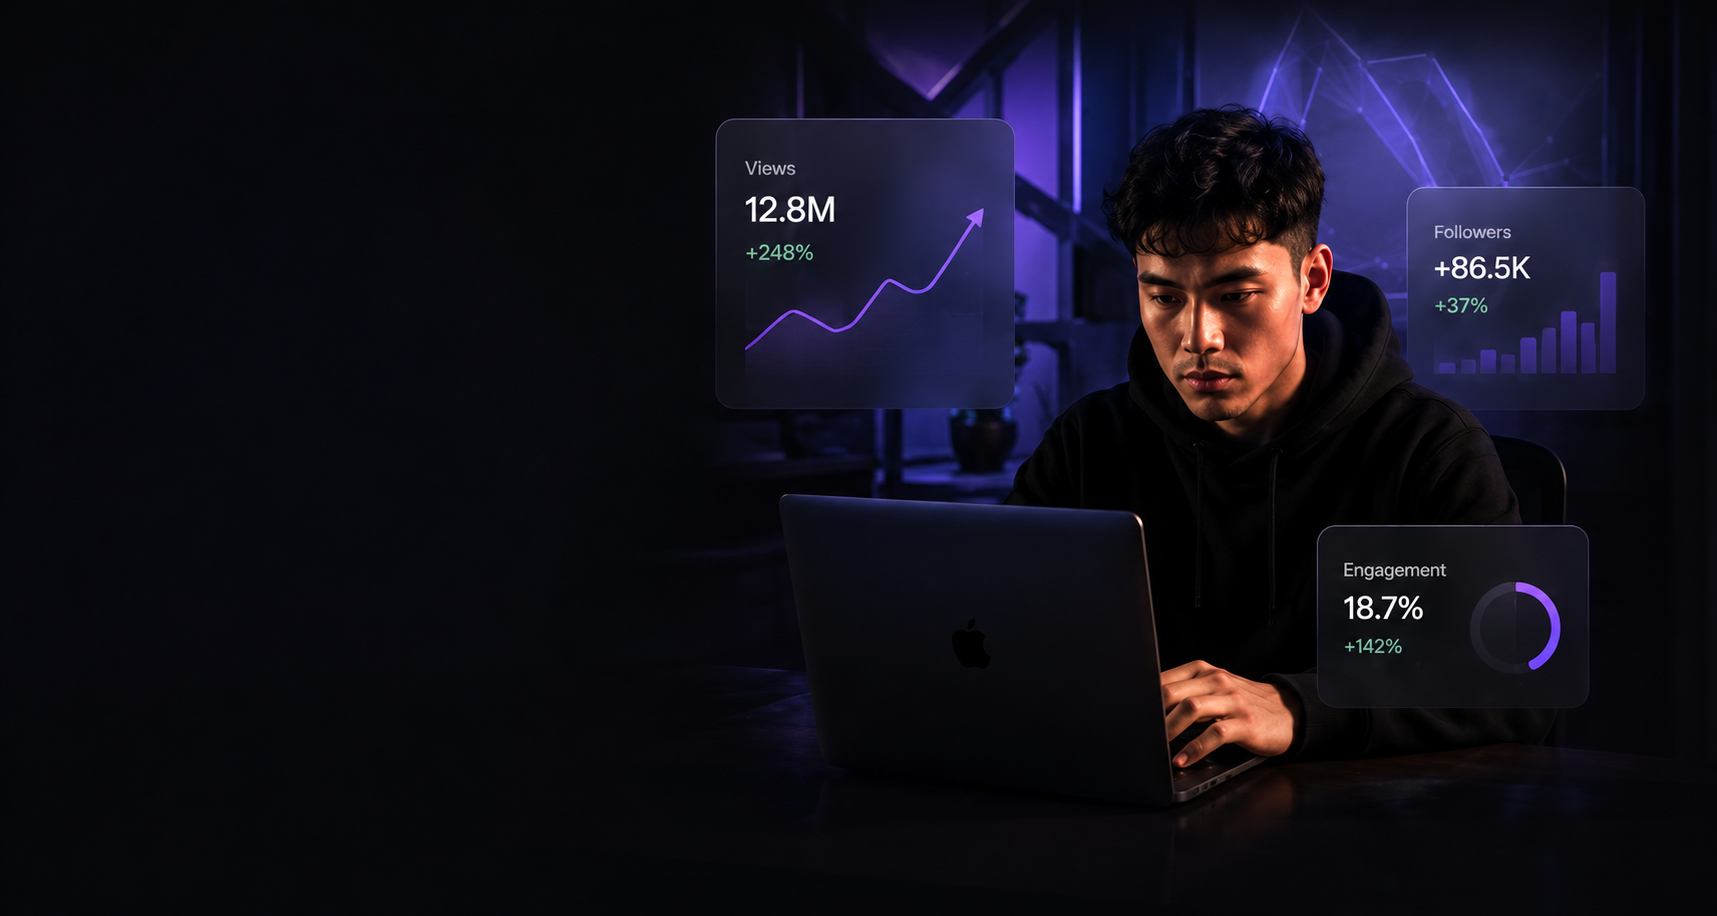
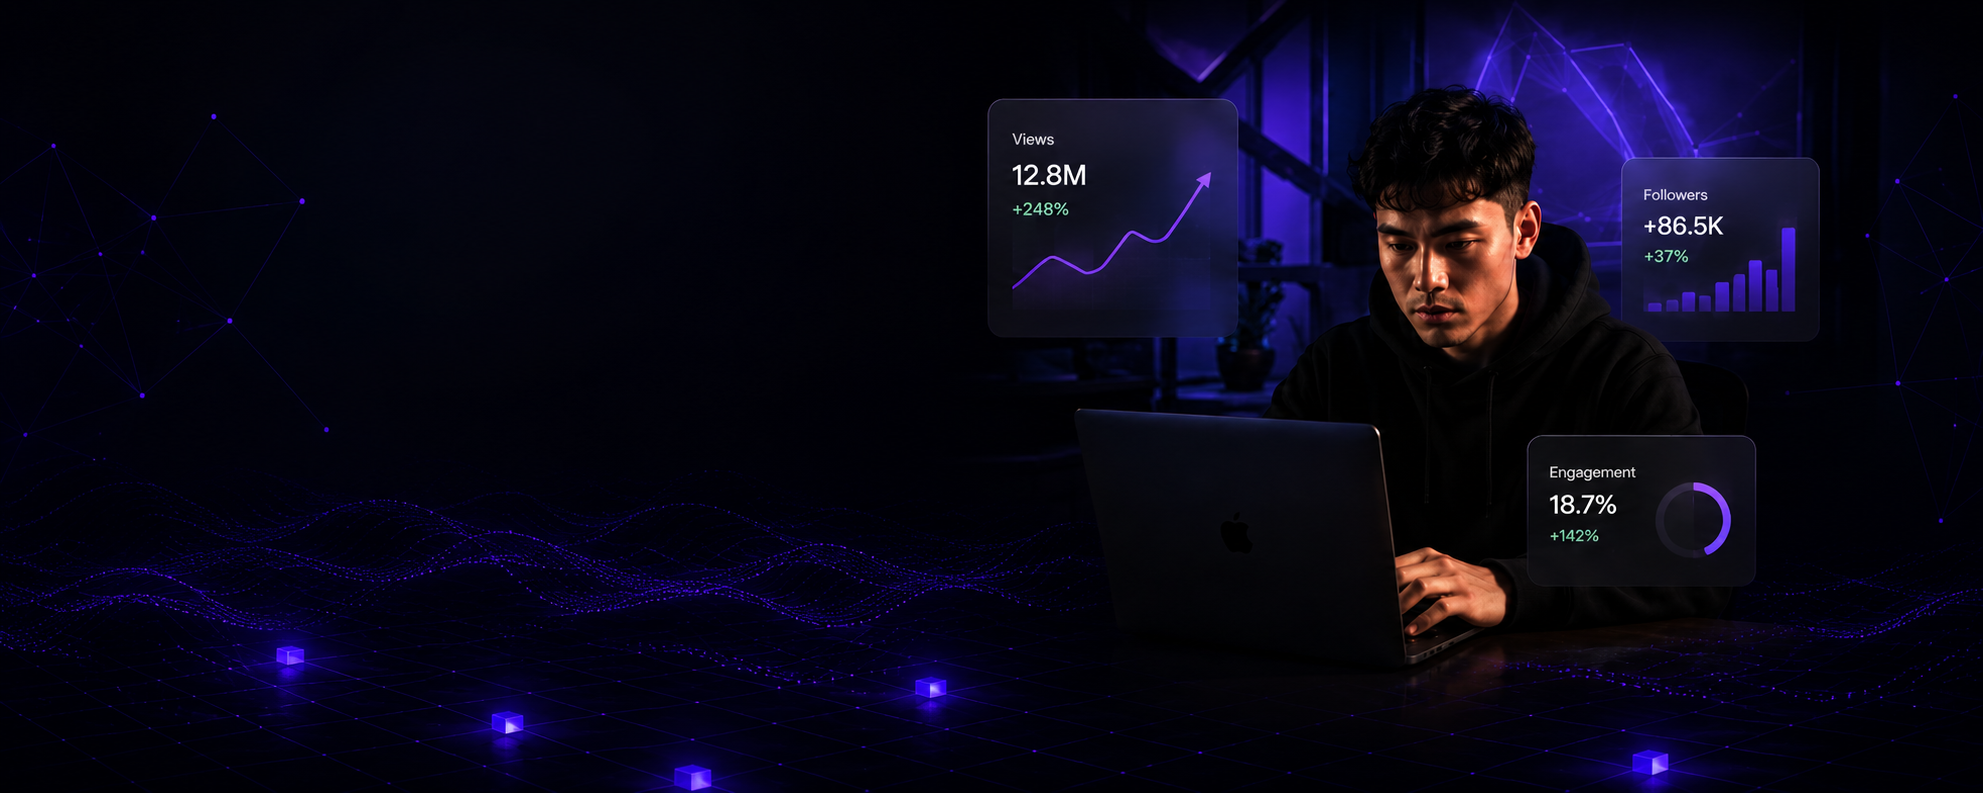
Hero a ancho completo: imagen entera + titulo superpuesto, pantalla arranca al terminar
hero.png nuevo (banner 2.5:1) ocupa todo el ancho sin recortar; titulo
superpuesto sobre la zona oscura izquierda. Se quita el margin-top:-50px de
#proceso para que el paso a paso arranque justo donde termina la imagen.

diff --git a/portfolio.html b/portfolio.html
@@ -790,7 +790,7 @@
     .footer, .footer *{ color:var(--rd-muted) !important; }
 
     /* ===== PROCESO: 7 tarjetas paso a paso (flex → última fila centrada = pirámide invertida) ===== */
-    #proceso{ margin-top:-50px; }   /* sube el título "Nuestro proceso" y todo lo de abajo */
+    #proceso{ margin-top:0; }   /* va justo debajo del hero (sin solaparse con la imagen) */
     .steps{ display:flex; flex-wrap:wrap; justify-content:center; gap:14px; margin:8px 0 26px; }
     .step{
       position:relative; overflow:hidden;
@@ -876,53 +876,50 @@
       background:linear-gradient(180deg, rgba(7,6,23,.45) 0%, rgba(7,6,23,.12) 38%, rgba(7,6,23,.62) 100%);
     }
 
+    /* Hero a TODO el ancho: la imagen se ve completa (sin recortar) y recién
+       cuando termina arranca el fondo "pantalla". El título va superpuesto
+       sobre la zona oscura izquierda del banner. */
     .lp-hero{
-      position:relative; z-index:1; padding:46px 24px 0; border-bottom:none !important;
-      /* fondo oscuro propio que tapa la "pantalla" y al final se FUNDE hacia ella (degradé) */
-      background:
-        radial-gradient(120% 95% at 74% 28%, rgba(74,46,150,.32), transparent 62%),
-        linear-gradient(180deg, #06060f 0%, #07061a 52%, rgba(7,6,26,0) 100%);
+      position:relative; z-index:1; padding:0; border-bottom:none !important;
+      background:#06060f; line-height:0;
     }
-    .lp-hero__grid{
-      max-width:1180px; margin:0 auto; width:100%;
-      display:grid; grid-template-columns:1fr 1.05fr; gap:50px; align-items:center;
-      min-height:min(72vh, 600px); padding-bottom:90px;
+    .lp-hero__img{ display:block; width:100%; height:auto; }   /* ancho completo · imagen entera */
+    .lp-hero__overlay{
+      position:absolute; left:0; top:0; bottom:0; z-index:2; line-height:1.05;
+      display:flex; flex-direction:column; justify-content:center;
+      padding:0 5vw; max-width:52%;
     }
-    .lp-hero__copy{ text-align:left; }
     .lp-hero__eyebrow{
-      display:inline-block; font-family:var(--font-mono); font-size:13px; font-weight:700; letter-spacing:.04em;
+      display:inline-block; width:fit-content; font-family:var(--font-mono);
+      font-size:clamp(9px,1vw,13px); font-weight:700; letter-spacing:.04em;
       color:var(--rd-cyan); background:rgba(60,240,255,.10); border:1px solid rgba(60,240,255,.40);
-      border-radius:999px; padding:6px 14px; margin-bottom:22px;
+      border-radius:999px; padding:.4em .9em; margin-bottom:clamp(8px,1.4vw,22px);
     }
     .lp-hero__title{
-      font-family:var(--font-display); font-size:clamp(2.3rem, 5.4vw, 4.6rem); line-height:1.0;
-      text-transform:uppercase; color:#eef2ff; margin:0 0 22px; text-shadow:0 2px 30px rgba(0,0,0,.55);
+      font-family:var(--font-display); font-size:clamp(1.1rem, 3.4vw, 4rem); line-height:1.0;
+      text-transform:uppercase; color:#eef2ff; margin:0 0 clamp(6px,1.2vw,20px);
+      text-shadow:0 2px 30px rgba(0,0,0,.6);
     }
     .lp-hero__title .hi-cyan{ color:var(--rd-cyan); text-shadow:0 0 24px rgba(61,240,255,.55); }
     .lp-hero__title .hi-violet{ color:#b78bff; text-shadow:0 0 24px rgba(154,107,255,.55); }
     .lp-hero__sub{
-      font-family:var(--font-body); font-size:clamp(1rem,1.5vw,1.18rem); color:var(--rd-muted);
-      max-width:34ch; margin:0 0 30px; line-height:1.55;
+      font-family:var(--font-body); font-size:clamp(.7rem,1.25vw,1.12rem); color:#c7ceea;
+      max-width:34ch; margin:0 0 clamp(10px,1.6vw,28px); line-height:1.5;
+      text-shadow:0 1px 12px rgba(0,0,0,.6);
     }
     .lp-hero__cta{
-      display:inline-flex; align-items:center; gap:10px; font-family:var(--font-display); font-size:14px;
-      text-transform:uppercase; text-decoration:none; padding:15px 26px; border-radius:12px;
+      display:inline-flex; align-items:center; gap:8px; width:fit-content;
+      font-family:var(--font-display); font-size:clamp(9px,1.05vw,14px);
+      text-transform:uppercase; text-decoration:none; padding:.9em 1.7em; border-radius:12px;
       background:linear-gradient(135deg,var(--rd-blue),var(--rd-cyan)); color:#06080f;
       box-shadow:0 0 22px rgba(60,240,255,.45), 0 10px 28px rgba(0,0,0,.45);
       transition:transform .12s ease, box-shadow .12s ease;
     }
     .lp-hero__cta:hover{ transform:translateY(-3px); box-shadow:0 0 34px rgba(60,240,255,.75), 0 12px 32px rgba(0,0,0,.5); }
-    .lp-hero__media{ position:relative; }
-    .lp-hero__media img{
-      width:100%; height:auto; display:block; border-radius:18px;
-      border:1px solid rgba(95,160,255,.30);
-      box-shadow:0 24px 60px rgba(0,0,0,.55), 0 0 40px rgba(95,150,255,.18);
-    }
-    @media (max-width:860px){
-      .lp-hero{ padding-top:26px; }
-      .lp-hero__grid{ grid-template-columns:1fr; gap:28px; min-height:0; padding-bottom:64px; }
-      .lp-hero__copy{ text-align:center; }
-      .lp-hero__sub{ margin-left:auto; margin-right:auto; }
+    /* en pantallas muy chicas el banner es bajo: dejamos solo eyebrow + título para que no se amontone */
+    @media (max-width:560px){
+      .lp-hero__sub{ display:none; }
+      .lp-hero__overlay{ padding:0 5vw; max-width:56%; }
     }
   </style>
 </head>
@@ -968,18 +965,14 @@
 
   <main id="inicio">
 
-    <!-- ============ HERO — título a la izquierda + foto a la derecha ============ -->
+    <!-- ============ HERO — imagen a TODO el ancho + título superpuesto a la izquierda ============ -->
     <section class="lp-hero" id="hero">
-      <div class="lp-hero__grid">
-        <div class="lp-hero__copy">
-          <span class="lp-hero__eyebrow">// NEXO WEB — Argentina 🇦🇷</span>
-          <h1 class="lp-hero__title">Tu negocio <span class="hi-cyan">online</span>,<br>potenciá tus <span class="hi-violet">ventas</span>.</h1>
-          <p class="lp-hero__sub">Diseñamos y desarrollamos tu web profesional en solo 7 días, lista para conseguir clientes.</p>
-          <a class="lp-hero__cta" href="#trabajos">Ver trabajos →</a>
-        </div>
-        <div class="lp-hero__media">
-          <img src="7dias/hero.png" alt="Persona trabajando con métricas de crecimiento online" loading="eager" decoding="async">
-        </div>
+      <img class="lp-hero__img" src="7dias/hero.png" alt="Persona trabajando con métricas de crecimiento online" loading="eager" decoding="async">
+      <div class="lp-hero__overlay">
+        <span class="lp-hero__eyebrow">// NEXO WEB — Argentina 🇦🇷</span>
+        <h1 class="lp-hero__title">Tu negocio <span class="hi-cyan">online</span>,<br>potenciá tus <span class="hi-violet">ventas</span>.</h1>
+        <p class="lp-hero__sub">Diseñamos y desarrollamos tu web profesional en solo 7 días, lista para conseguir clientes.</p>
+        <a class="lp-hero__cta" href="#trabajos">Ver trabajos →</a>
       </div>
     </section>
 
